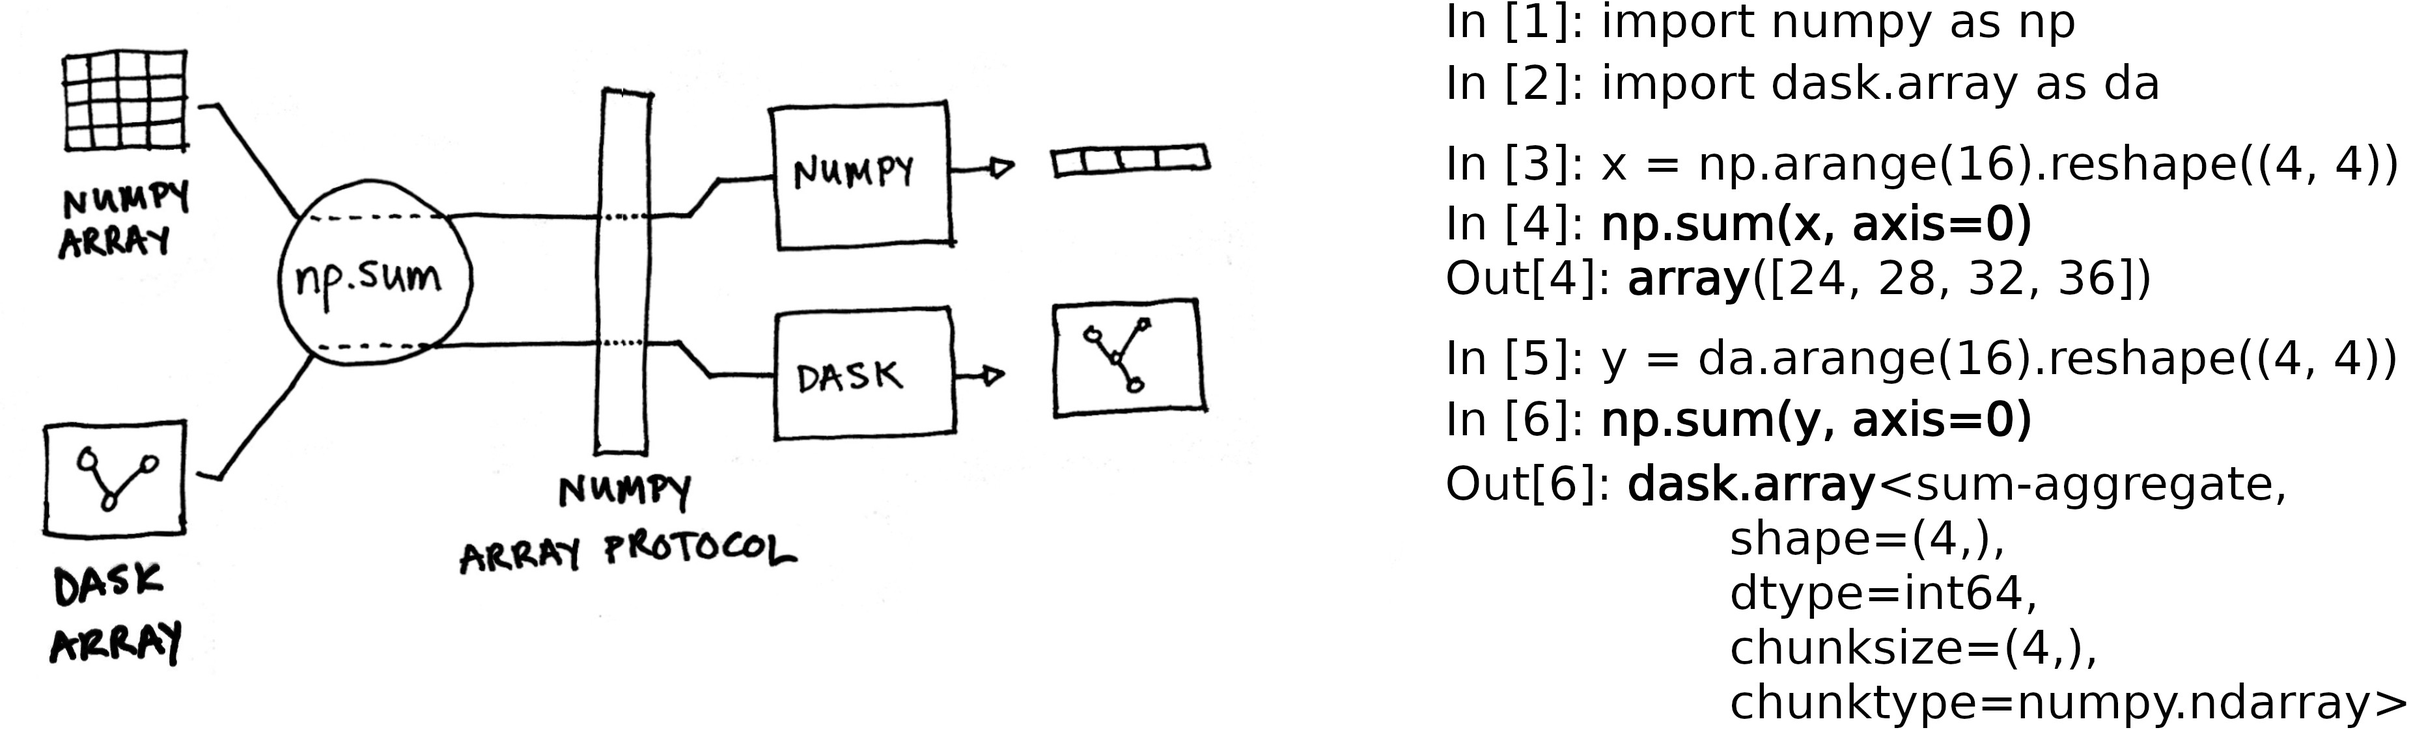
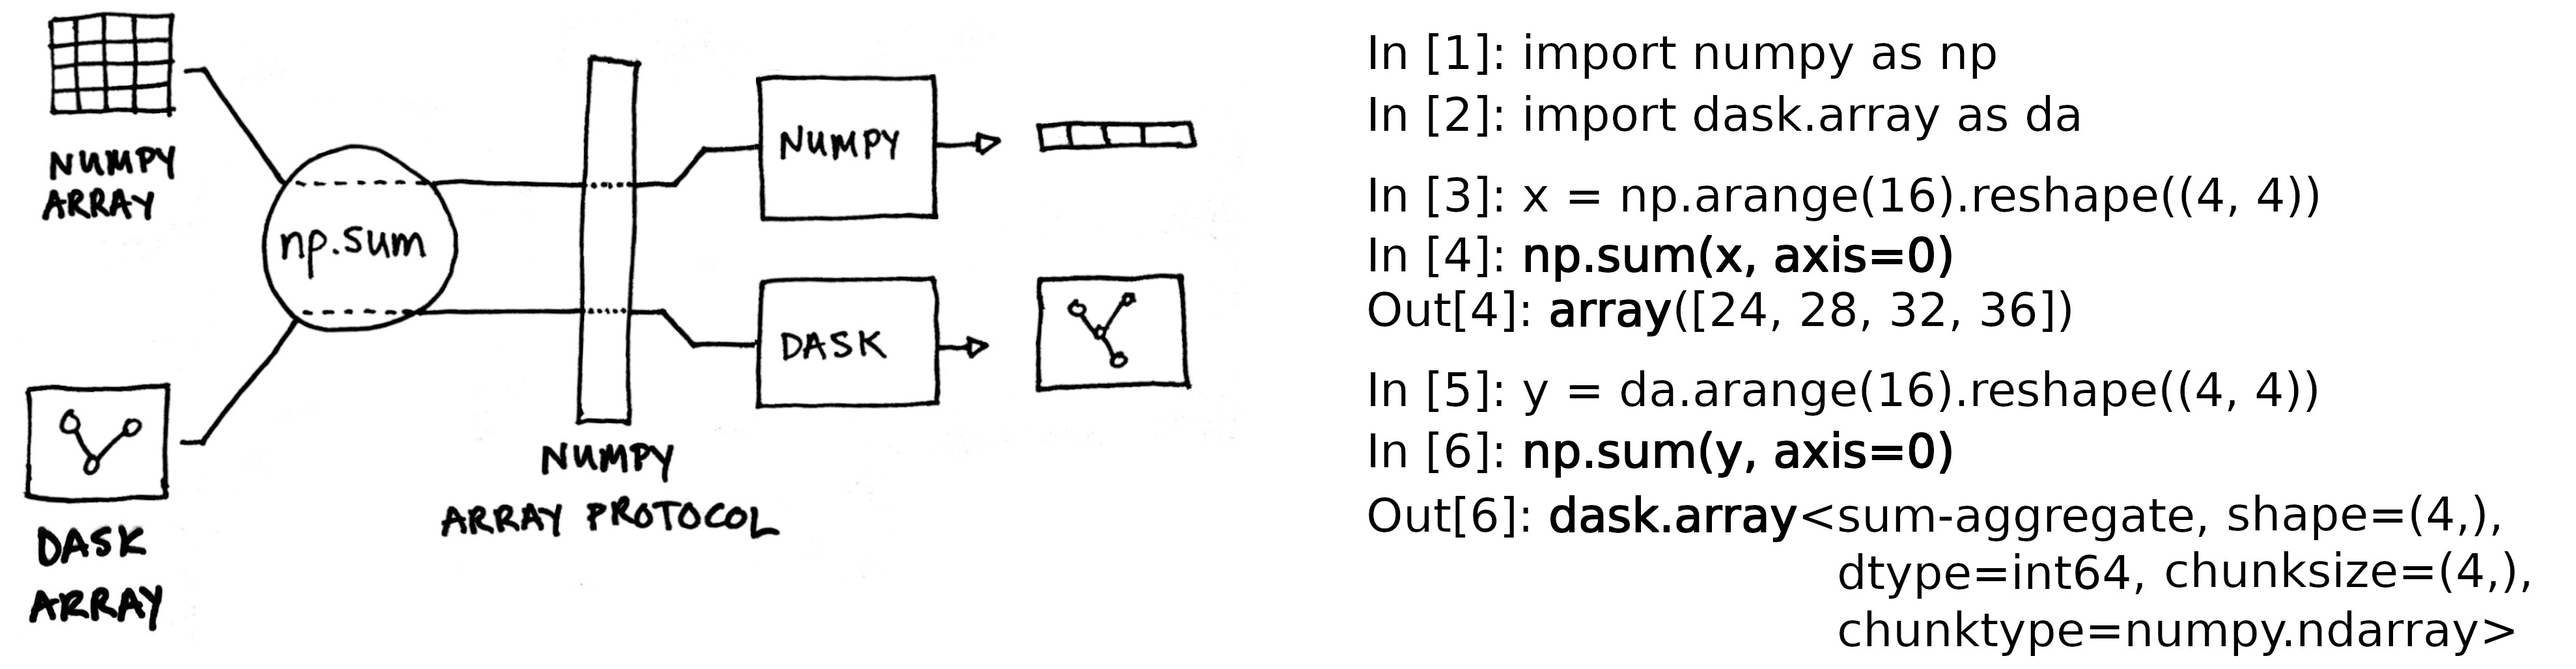
minor edits

diff --git a/body.tex b/body.tex
@@ -10,6 +10,7 @@ This briefly caused the two communities to diverge, until
 2005, when NumPy emerged as a ``best of both worlds'' unification of Numeric
 and NumArray \cite{oliphant2006guide}.
 
+% KJM: I moved this here to get the placement right 
 \begin{figure*}[h]
   \centering
   \includegraphics[width=\textwidth]{static/sketches/array-concepts}   
@@ -37,9 +38,9 @@ It is a community developed, open source library, which provides a
 multidimensional Python array object along with array-aware functions
 that operate on it.
 Because of its inherent simplicity, the NumPy array is
-the {\it de facto} exchange format for array data in Python.
+the \emph{de facto} exchange format for array data in Python.
 The library has such widespread adoption that not only the array object but also its
-{\it Application Programming Interface} (API) has become widespread as
+\emph{Application Programming Interface} (API) has become widespread as
 a language for array programming.
 
 \section*{NumPy arrays}
@@ -93,7 +94,7 @@ limiting memory usage.
 
 To complement the array syntax, NumPy includes functions that perform
 \emph{vectorized} calculations on arrays, including arithmetic, statistics, and
-trigonometry.
+trigonometry (Fig.~\ref{fig:array-concepts}d).
 Vectorization---operating on whole arrays rather than their individual
 elements---is essential to array programming.
 This means that operations that would take many tens of lines to express in
@@ -206,7 +207,7 @@ The rapid recent growth of data science, machine learning, and
 artificial intelligence has further and dramatically boosted usage of
 scientific Python.  Examples of its impactful application, such as the
 above, now exist in almost every discipline in the natural and social
-sciences, and in many fields these tools have become \emph{the
+sciences.  In many fields these tools have become \emph{the
 primary} software environment.  NumPy and its ecosystem are commonly
 taught in university courses, bootcamps, and summer schools, and are
 at the focus of community conferences and workshops worldwide.
@@ -221,7 +222,8 @@ It runs on machines ranging from embedded devices to the world's
 largest supercomputers and yields performance
 approaching that of compiled languages.
 For algorithms that do not fit the array programming approach,
-or require even faster implementations, a variety of tools exist (Cython, Numba, or Pythran, ...) that transparently accelerates bottlenecks.
+or require even faster implementations, a variety of tools exist (e.g., Cython, Numba, Pythran)
+that transparently accelerate bottlenecks.
 These tools allow programmers to express concepts using high level array programming without sacrificing efficiency.
 In many cases, fast algorithms already are implemented by libraries in the scientific Python ecosystem; using these primitives, efficient codes can be written in pure Python.
 % smooth experience/intengration from high level <-> low level?
@@ -284,8 +286,16 @@ concert.
 
 \begin{figure*}
   \centering
-  \includegraphics[width=.9\textwidth]{static/sketches/array_protocol.jpg}
-  \caption{\textbf{Interoperability.} Through its array protocol, the NumPy API can operate on various types of array objects, including those written outside of NumPy. In this example, NumPy's \code{sum} function is called on a NumPy and a dask array, respectively. The call gets succeeds by dispatching to the appropriate library implementation, and results in different output array types.}\label{fig:duck-arrays}
+  \includegraphics[width=\textwidth]{static/sketches/array_protocol.jpg}
+
+  \caption{\textbf{Interoperability.} Through its array protocol, the NumPy API
+     can operate on various types of array objects, including those written outside
+     of NumPy. In this example, NumPy's \code{sum} function is called on a NumPy and
+     a Dask array, respectively. The call succeeds by dispatching to the
+     appropriate library implementation, and results in different output array
+     types.
+  }\label{fig:duck-arrays}
+
 \end{figure*}
 
 % should we hint at some of the community interaction part
@@ -368,12 +378,12 @@ and The Structure and Interpretation of Computer Programs) has
 further popularized NumPy as a tool of choice for modern data science.
 
 Even though NumPy is not part of Python's standard library,
-we benefit from a good relationship with the Python developers.
+it benefits from a good relationship with the Python developers.
 Over the years, the Python language has added new features and
 special syntax so that NumPy would have more succinct and 
 easy to read array notation.
-Since we are not part of the standard library, we are able to
-dictate our own release policies and development patterns.
+Since it is not part of the standard library, NumPy is able to
+dictate its own release policies and development patterns.
 
 NumPy is a community of practice with a strong \emph{culture} of
 employing software engineering practice to improve collaboration and
@@ -413,9 +423,6 @@ syntax from APL through Yorick and others.
 It also made it easy for other libraries to develop fast and
 memory-efficient compiled code, usually in C or Fortran, that could manipulate
 these arrays and pass them back to Python.
-Popular array-aware libraries increased the user community and that
-in turn led to more libraries adding new functionality
-to the scientific Python ecosystem.
 
 NumPy began as an attempt to add an array object to Python and became
 the foundation of a rich ecosystem of tools.
